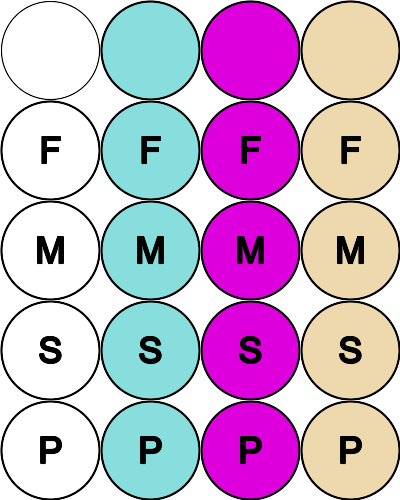
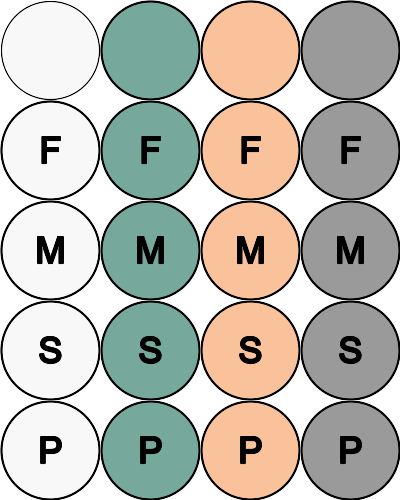
better color matching

diff --git a/gameinfos.inc.php b/gameinfos.inc.php
@@ -75,7 +75,7 @@ $gameinfos = [
     'language_dependency' => false,
 
     // Colors attributed to players
-    'player_colors' => ["ffffff", "91dbde", "eca34d6", "ead8b3"],
+    'player_colors' => ["f8f8f8", "76a89b", "f9c29a", "9a9a9a"],
 
     // Favorite colors support : if set to "true", support attribution of favorite colors based on player's preferences (see reattributeColorsBasedOnPreferences PHP method)
     // NB: this parameter is used only to flag games supporting this feature; you must use (or not use) reattributeColorsBasedOnPreferences PHP method to actually enable or disable the feature.
